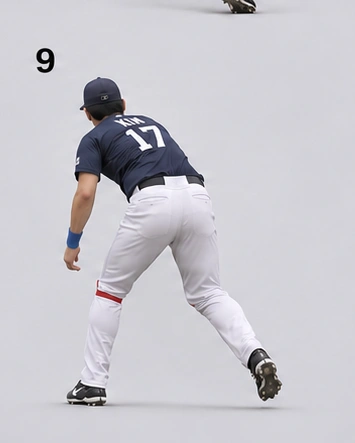
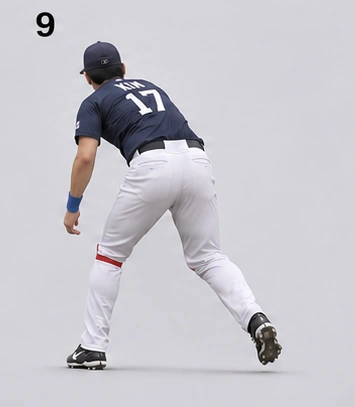
Keep complete sidearm poses visible in the form review

diff --git a/broadcast-forms.html b/broadcast-forms.html
@@ -1,6 +1,6 @@
 <!doctype html><html lang="ko"><head><meta charset="utf-8"><meta name="viewport" content="width=device-width,initial-scale=1"><title>투구폼 구분동작 · BASEBALL EMPIRE</title><style>
-*{box-sizing:border-box}body{margin:0;background:#edf1f5;color:#173345;font-family:system-ui,-apple-system,sans-serif}main{max-width:1360px;margin:auto;padding:28px 20px 60px}header small{font-size:10px;letter-spacing:.16em;color:#667d8f}h1{font-size:28px;margin:10px 0}header p{color:#526a7b;line-height:1.6;margin:8px 0}nav{display:flex;gap:8px;flex-wrap:wrap;margin:20px 0}nav a{padding:10px 16px;border:1px solid #cad6df;border-radius:24px;text-decoration:none;color:#294d62;background:white;font-size:14px}.legend{display:flex;gap:18px;flex-wrap:wrap;padding:14px 18px;background:white;border:1px solid #d8e1e8;border-radius:14px;font-size:13px}.dot{display:inline-block;width:10px;height:10px;border-radius:50%;margin-right:7px}.blue{background:#267bd4}.red{background:#d44749}section{scroll-margin-top:16px;margin:26px 0 40px;background:white;border:1px solid #d5e0e7;border-radius:20px;padding:22px}section h2{margin:0;font-size:22px}section>p{margin:8px 0 18px;color:#617789;font-size:14px}.steps{display:grid;grid-template-columns:repeat(5,minmax(0,1fr));gap:14px 10px}figure{margin:0;min-width:0}.pose{position:relative;overflow:hidden;aspect-ratio:355/444;background:#dedee2;border-radius:10px}.pose img{display:block;position:absolute;max-width:none}.pose .sheet{width:500%;height:200%;object-fit:fill}.pose .single{width:100%;height:100%;object-fit:fill}figcaption{display:flex;gap:8px;align-items:center;font-size:12px;min-height:42px;padding:8px 2px;color:#526b7c}figcaption b{color:#214e67;font-size:13px}.coil .pose{outline:2px solid #3b7f9d;outline-offset:-2px}.coil figcaption{color:#205970;font-weight:600}footer{font-size:13px;color:#61778a;line-height:1.7}footer a{color:#2f6e8f}@media(max-width:640px){main{padding:20px 12px 40px}h1{font-size:23px}section{padding:14px;border-radius:16px}.steps{grid-template-columns:repeat(2,minmax(0,1fr));gap:10px}nav a{font-size:12px;padding:9px 12px}.legend{font-size:12px;gap:10px}figcaption{font-size:11px}}
+*{box-sizing:border-box}body{margin:0;background:#edf1f5;color:#173345;font-family:system-ui,-apple-system,sans-serif}main{max-width:1360px;margin:auto;padding:28px 20px 60px}header small{font-size:10px;letter-spacing:.16em;color:#667d8f}h1{font-size:28px;margin:10px 0}header p{color:#526a7b;line-height:1.6;margin:8px 0}nav{display:flex;gap:8px;flex-wrap:wrap;margin:20px 0}nav a{padding:10px 16px;border:1px solid #cad6df;border-radius:24px;text-decoration:none;color:#294d62;background:white;font-size:14px}.legend{display:flex;gap:18px;flex-wrap:wrap;padding:14px 18px;background:white;border:1px solid #d8e1e8;border-radius:14px;font-size:13px}.dot{display:inline-block;width:10px;height:10px;border-radius:50%;margin-right:7px}.blue{background:#267bd4}.red{background:#d44749}section{scroll-margin-top:16px;margin:26px 0 40px;background:white;border:1px solid #d5e0e7;border-radius:20px;padding:22px}section h2{margin:0;font-size:22px}section>p{margin:8px 0 18px;color:#617789;font-size:14px}.steps{display:grid;grid-template-columns:repeat(5,minmax(0,1fr));gap:14px 10px}figure{margin:0;min-width:0}.pose{position:relative;overflow:hidden;aspect-ratio:355/444;background:#dedee2;border-radius:10px}.pose img{display:block;position:absolute;max-width:none}.pose .sheet{width:500%;height:200%;object-fit:fill}.pose .single{width:100%;height:100%;object-fit:contain}figcaption{display:flex;gap:8px;align-items:center;font-size:12px;min-height:42px;padding:8px 2px;color:#526b7c}figcaption b{color:#214e67;font-size:13px}.coil .pose{outline:2px solid #3b7f9d;outline-offset:-2px}.coil figcaption{color:#205970;font-weight:600}footer{font-size:13px;color:#61778a;line-height:1.7}footer a{color:#2f6e8f}@media(max-width:640px){main{padding:20px 12px 40px}h1{font-size:23px}section{padding:14px;border-radius:16px}.steps{grid-template-columns:repeat(2,minmax(0,1fr));gap:10px}nav a{font-size:12px;padding:9px 12px}.legend{font-size:12px;gap:10px}figcaption{font-size:11px}}
 </style></head><body><main><header><small>BASEBALL EMPIRE · PITCHING MOTION</small><h1>투구폼별 10단계 구분동작</h1><p>우투 기준. 2·3번은 같은 오른발 지지와 오른쪽 비틀기을 유지하며, 3번에서 왼무릎을 더 높입니다.</p></header><nav><a href="#overhand">오버핸드</a><a href="#threequarter">쓰리쿼터</a><a href="#sidearm">사이드암</a><a href="#submarine">언더핸드</a></nav><div class="legend"><span><i class="dot blue"></i>공을 던지는 오른손목</span><span><i class="dot red"></i>들고 내딛는 왼무릎</span><span>2·3번 테두리: 수정한 비틀기 동작</span></div><div id="boards"></div><footer>폼별 구분동작 시안 · 경기 중계 적용 전 검토용<br><a href="index.html">BASEBALL EMPIRE로 돌아가기</a></footer></main><script>
 const styles=[['overhand','오버핸드','오른팔이 어깨 위로 올라가 머리 위에서 릴리스'],['threequarter','쓰리쿼터','오른팔이 어깨 위 대각선 슬롯에서 릴리스'],['sidearm','사이드암','오른팔이 어깨 높이의 수평 슬롯에서 릴리스'],['submarine','언더핸드','상체를 깊게 숙이고 오른손을 무릎 높이로 낮춰 릴리스']],labels=['준비','초기 들기 · 오른쪽 비틀기','최고점 · 오른쪽 비틀기','스트라이드 · 손 분리','착지 · 코킹','릴리스','초기 팔로스루','팔로스루','감속','균형 회복'];
-document.querySelector('#boards').innerHTML=styles.map(([key,name,desc])=>`<section id="${key}" aria-label="${name} 10단계"><h2>${name}</h2><p>${desc} · <a href="assets/broadcast/form-review/${key}-board.webp" target="_blank" rel="noopener">전체 이미지 보기</a></p><div class="steps">${labels.map((label,i)=>`<figure class="${i===1||i===2?'coil':''}" data-step="${i+1}"><div class="pose">${i===1||i===2?`<img class="single" src="assets/broadcast/form-review/coil-${i+1}.webp" alt="${i+1}번 ${label}">`:`<img class="single" src="assets/broadcast/form-review/${key}-step-${i+1}.webp" alt="${i+1}번 ${label}">`}</div><figcaption><b>${String(i+1).padStart(2,'0')}</b>${label}</figcaption></figure>`).join('')}</div></section>`).join('');
+document.querySelector('#boards').innerHTML=styles.map(([key,name,desc])=>`<section id="${key}" aria-label="${name} 10단계"><h2>${name}</h2><p>${desc} · <a href="assets/broadcast/form-review/${key}-board.webp?v=forms71" target="_blank" rel="noopener">전체 이미지 보기</a></p><div class="steps">${labels.map((label,i)=>`<figure class="${i===1||i===2?'coil':''}" data-step="${i+1}"><div class="pose">${i===1||i===2?`<img class="single" src="assets/broadcast/form-review/coil-${i+1}.webp?v=forms71" alt="${i+1}번 ${label}">`:`<img class="single" src="assets/broadcast/form-review/${key}-step-${i+1}.webp?v=forms71" alt="${i+1}번 ${label}">`}</div><figcaption><b>${String(i+1).padStart(2,'0')}</b>${label}</figcaption></figure>`).join('')}</div></section>`).join('');
 </script></body></html>
